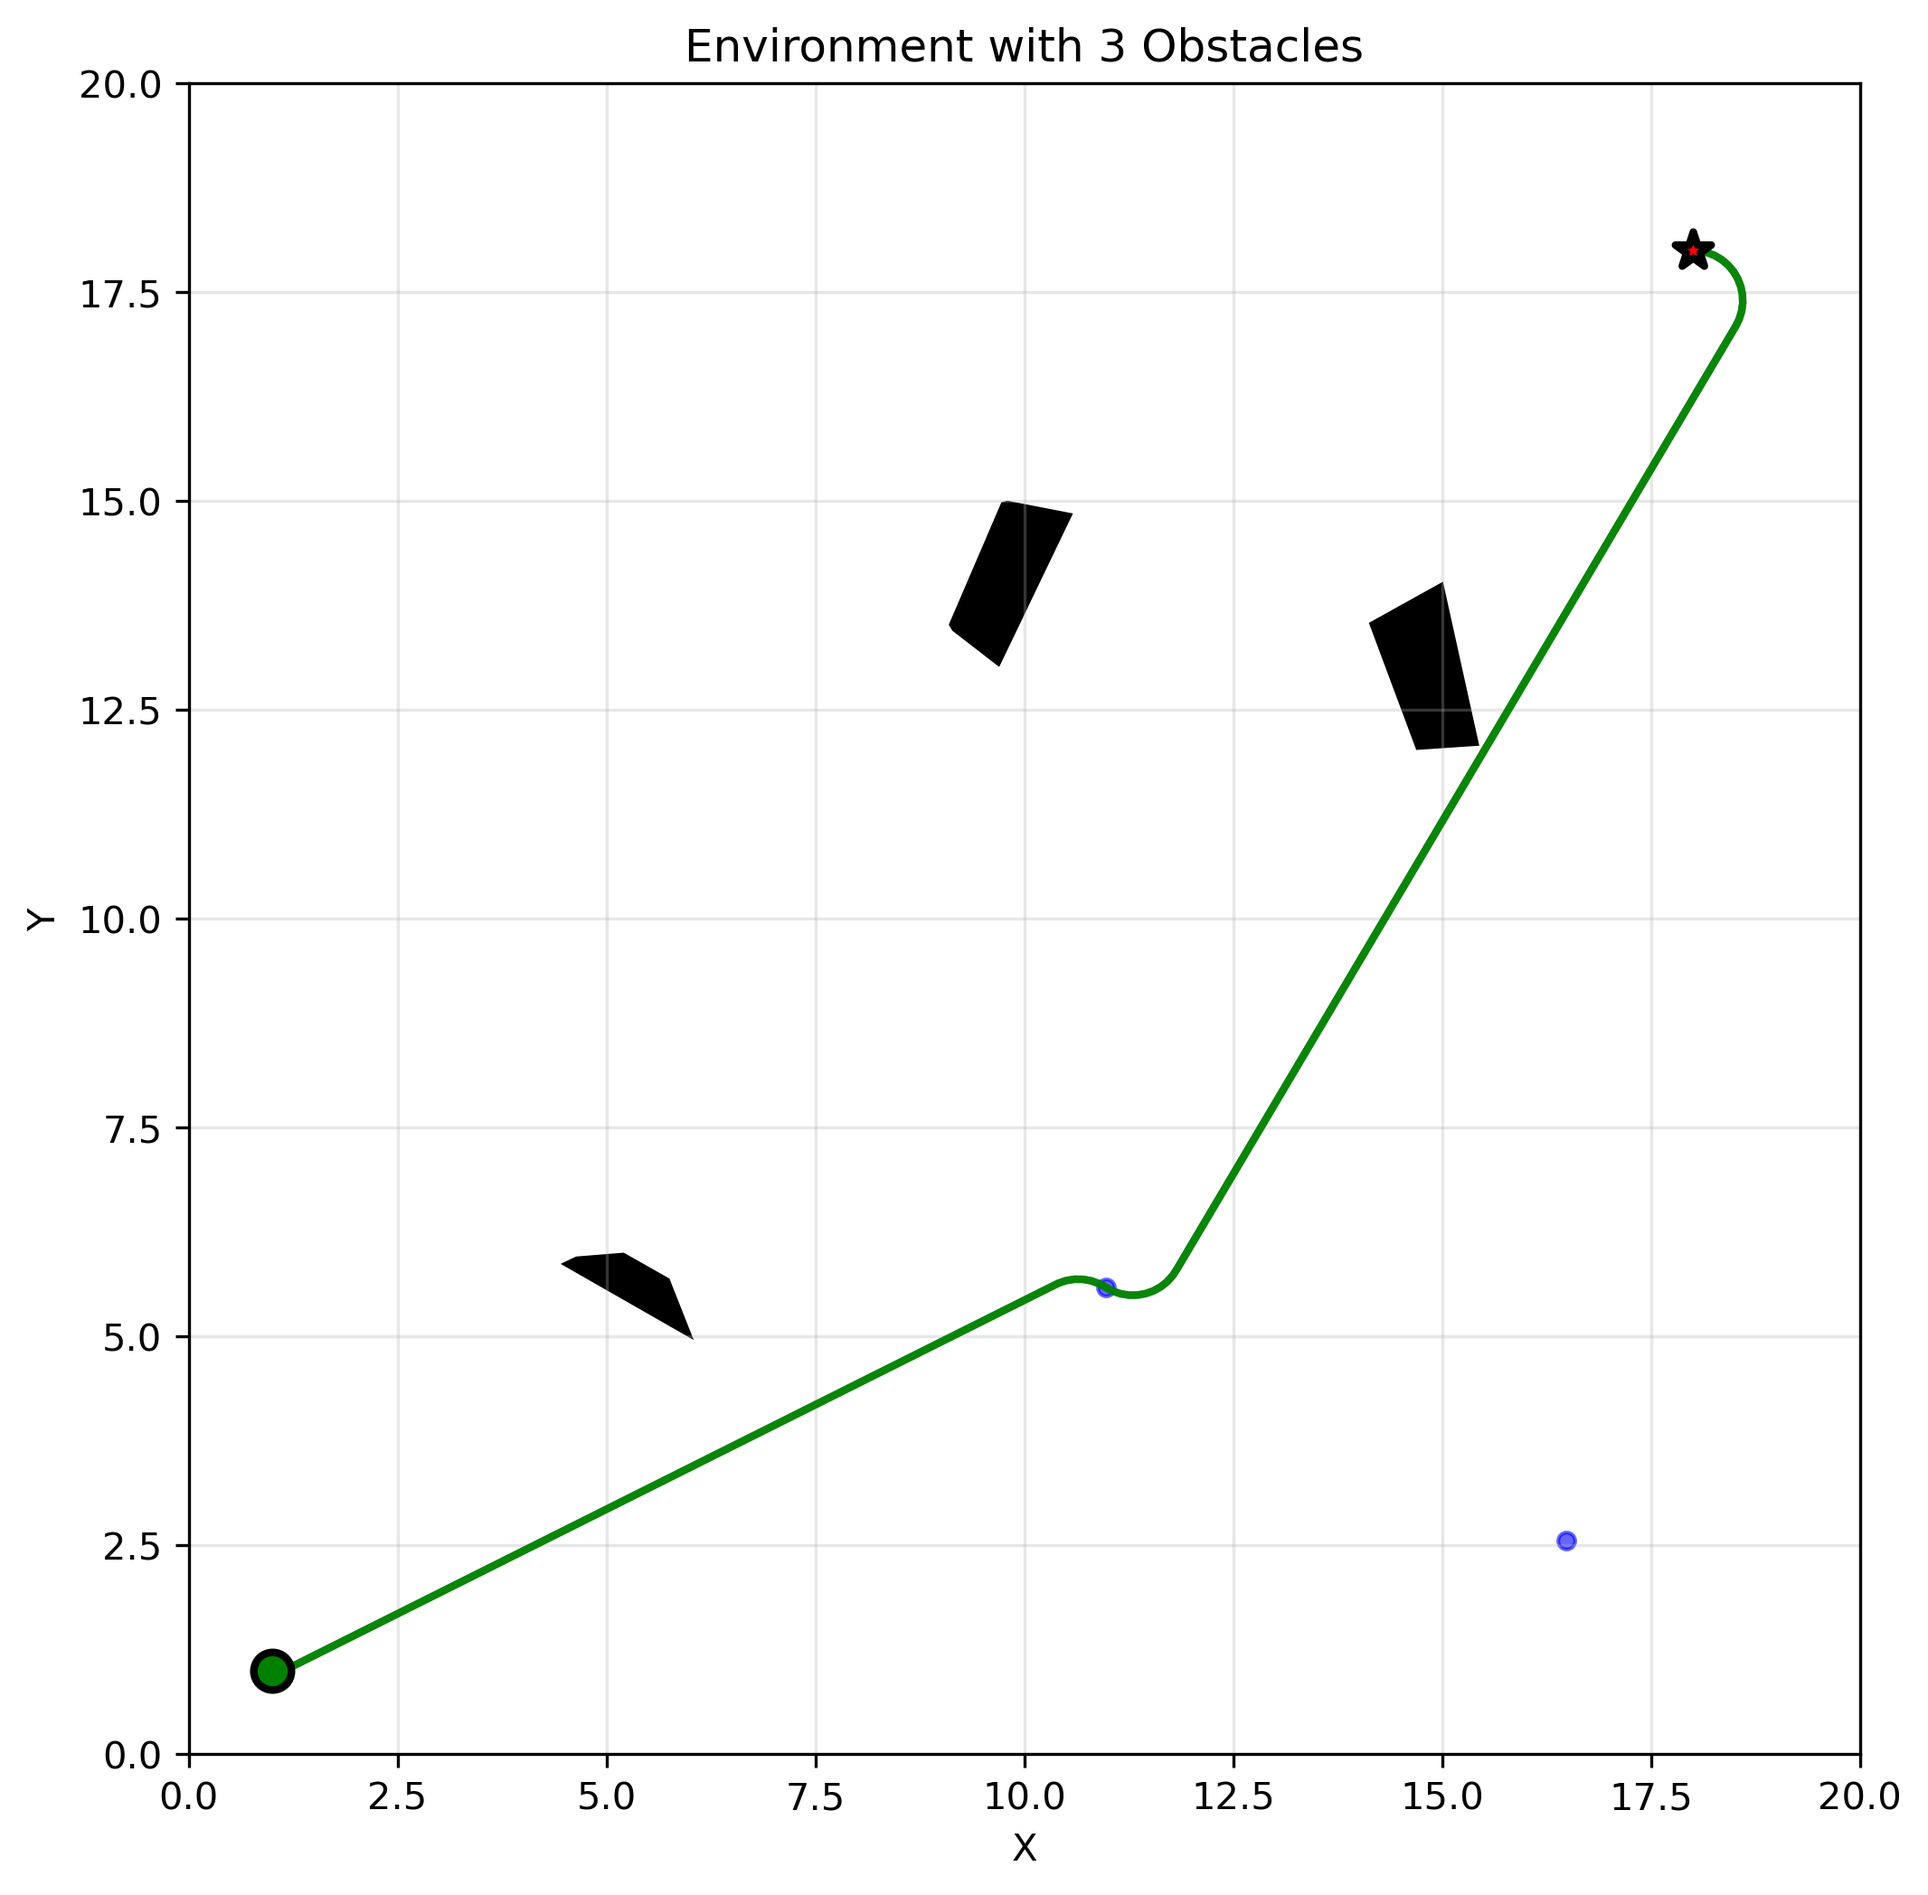
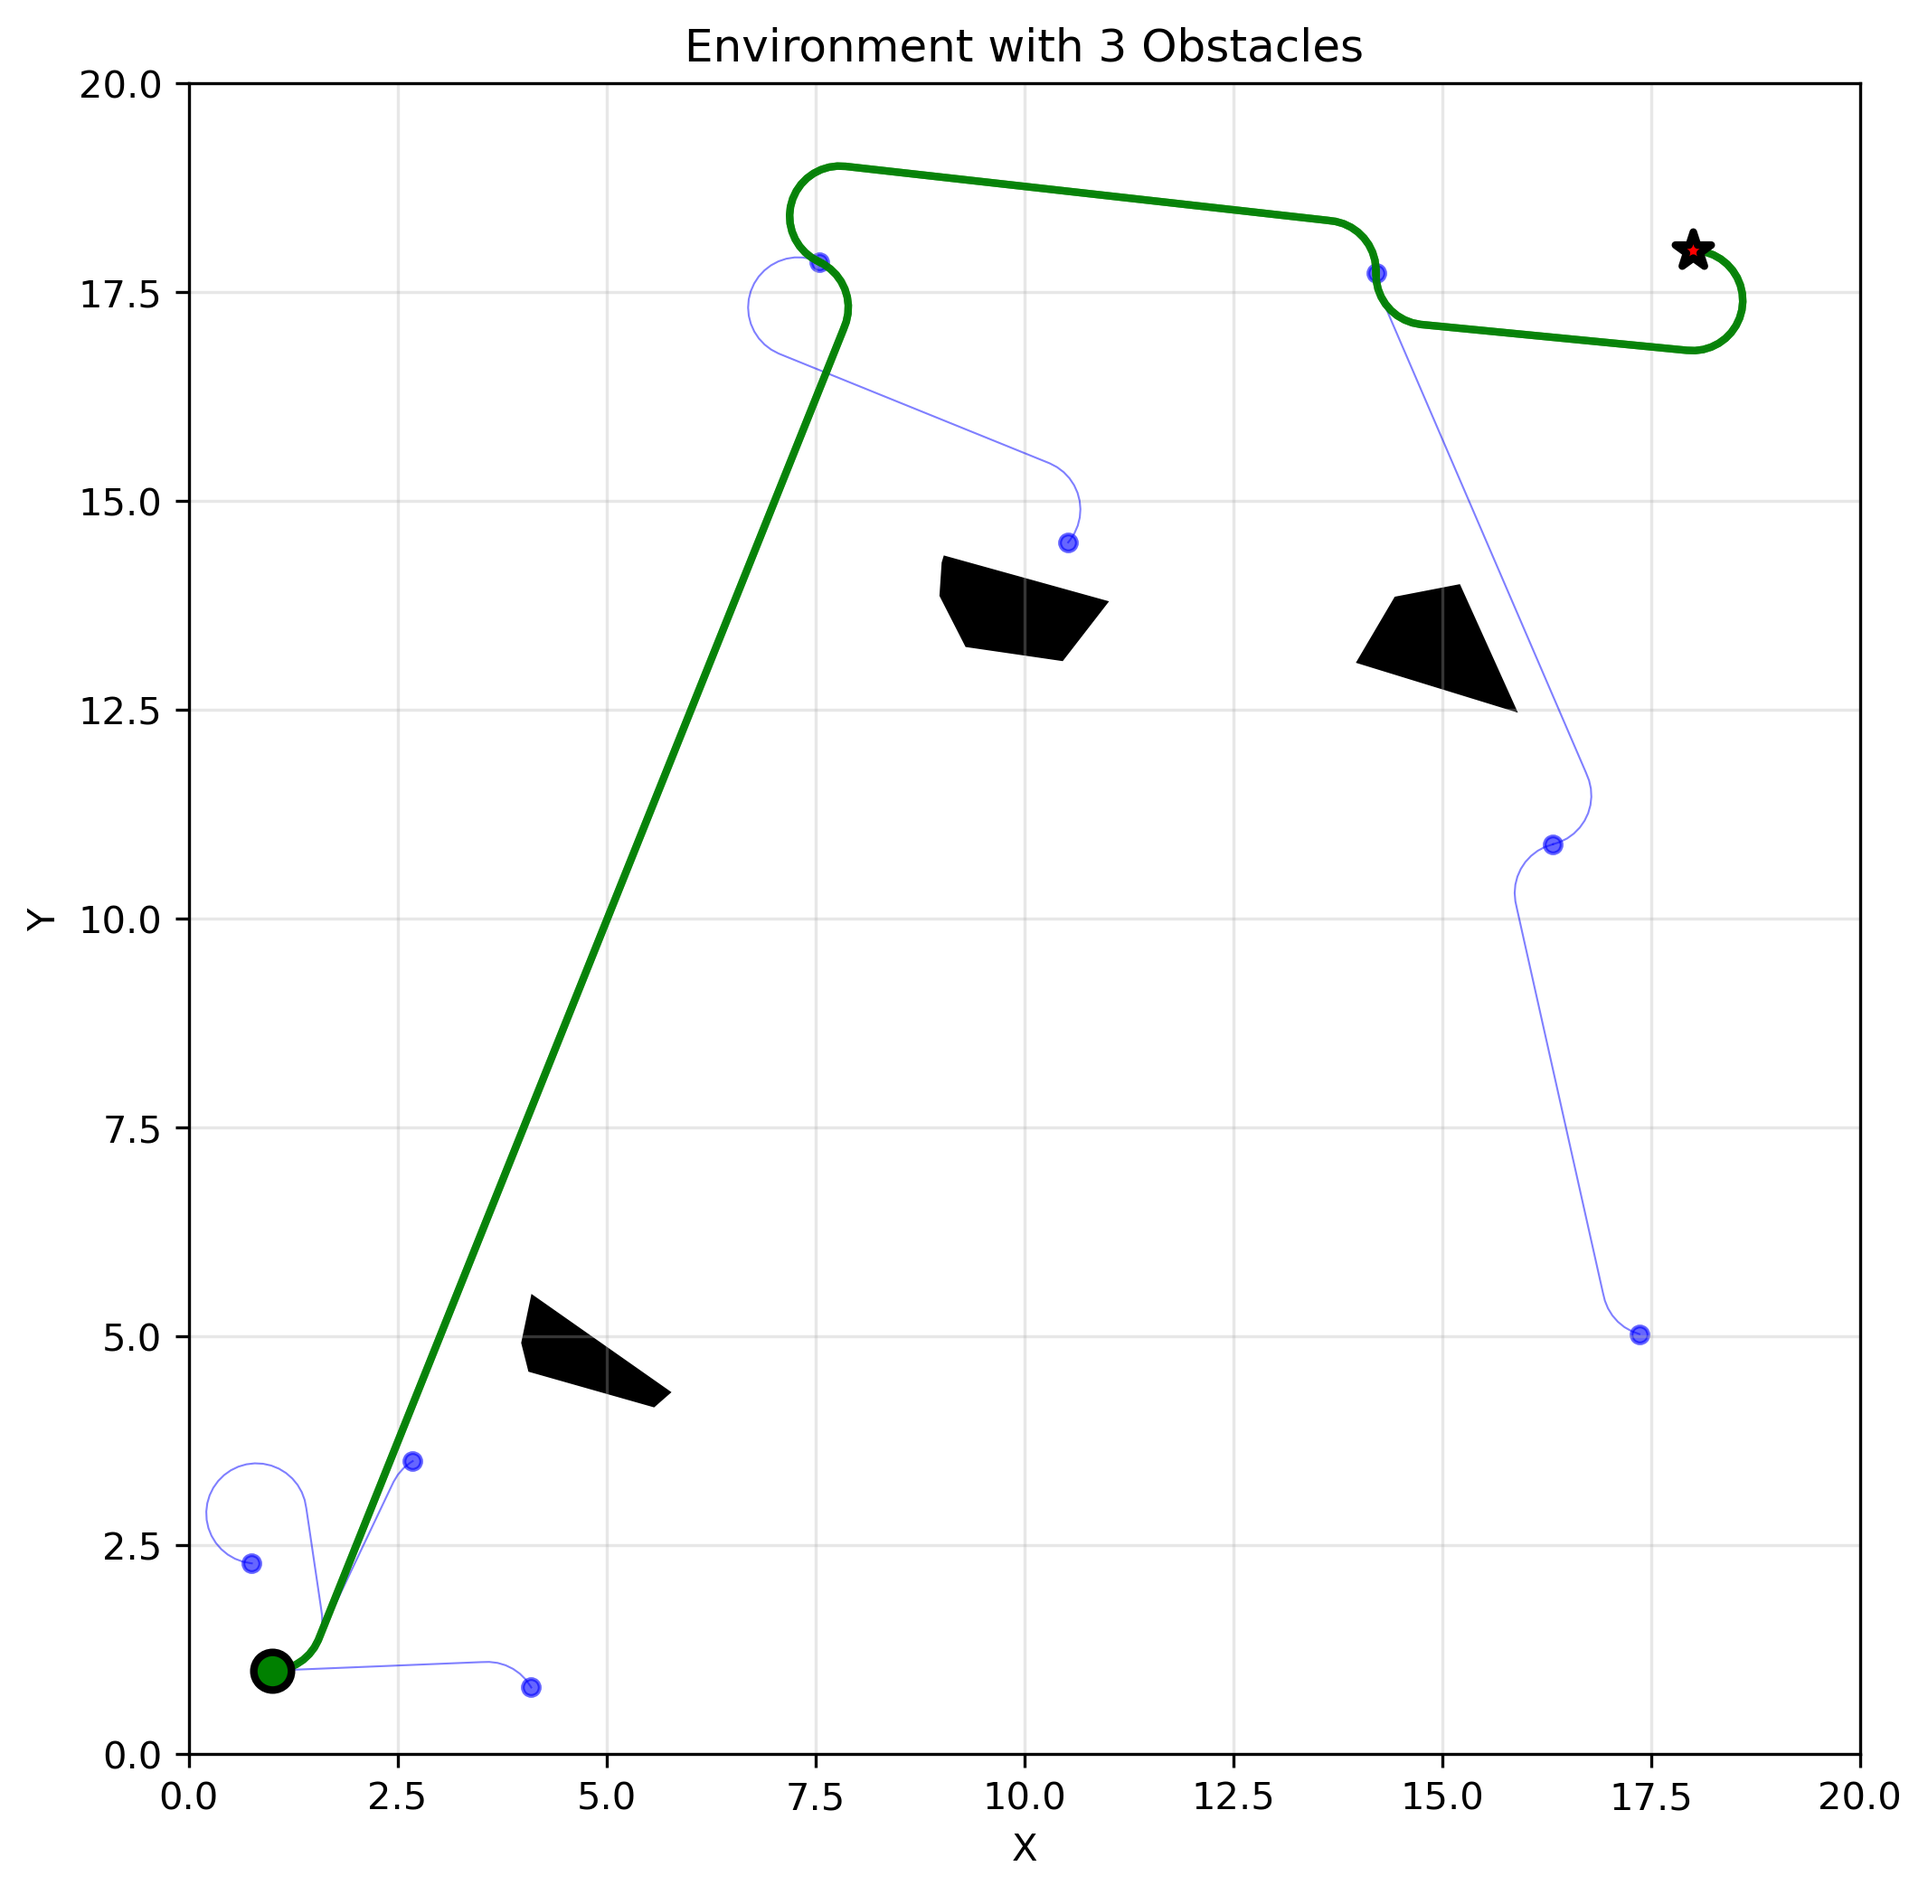
Fixed visualization problem

diff --git a/RRTs/rrt_dubin_felienc.py b/RRTs/rrt_dubin_felienc.py
@@ -1238,24 +1238,18 @@ class RRT:
                 c='red', s=100, marker='*', 
                 edgecolors='black', linewidths=2, 
                 label='Goal', zorder=5)
-        
-        
-        
-        # # Highlight best edge
-
-        # best_edge = self.select_best_edge()
-        # if best_edge.path:
-        #     path = np.array(best_edge.path)
-        #     ax.plot(path[:, 0], path[:, 1], 
-        #         'r-', linewidth=2, alpha=0.8, label='Best Path')
             
 
         # Plot edges/paths
-        # for _, val in self.edges.items():
-        #     if val.path:
-        #         path = np.array(val.path)
-        #         ax.plot(path[:, 0], path[:, 1], 
-        #             'b-', linewidth=0.5, alpha=0.5)
+        for _, val in self.edges.items():
+            if val.path:
+                # Convert to list and extract (x, y) for each point
+                path_xy = [(p[0], p[1]) for p in val.path if len(p) >= 2]
+                if len(path_xy) > 1:
+                    path_xy = np.array(path_xy)
+                    ax.plot(path_xy[:, 0], path_xy[:, 1], 
+                            'b-', linewidth=0.5, alpha=0.5)
+
 
         # Highlight best path to goal   
         best_path, best_edges = self.get_best_path_to_goal()
